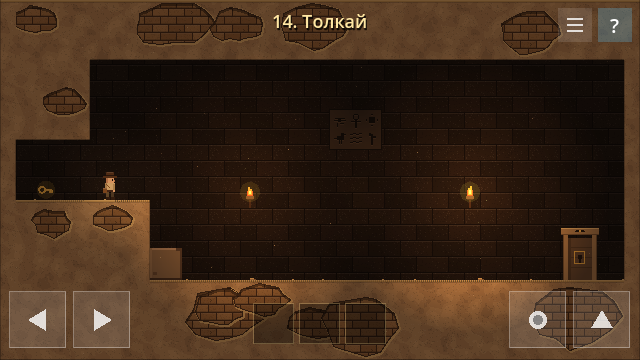
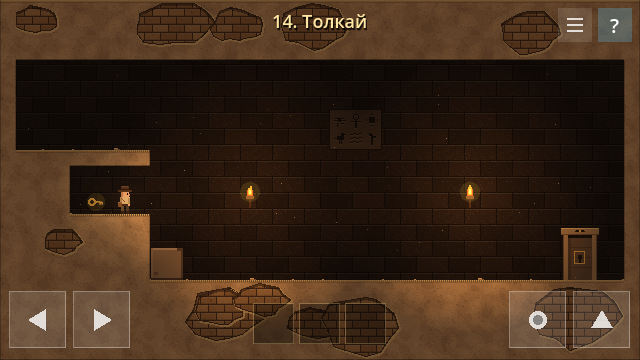
Level 14: hero pushes the stone off the ledge himself; secret cache inside the ledge
Claude-Session: https://claude.ai/code/session_01Grf5WdcuQYwuX1MMBXvSiC

Changed region(s): [[0.0, 0.1528, 0.25, 0.7028]]

diff --git a/README.md b/README.md
@@ -28,7 +28,7 @@
 | `scripts/rune_block.gd` | камень с голубой руной: касание (TAP) или перетаскивание (DRAG) |
 | `scripts/door.gd`, `lever.gd`, `exit_door.gd` | дверь, рычаг, выход |
 | `scripts/color_plate.gd`, `plate_sequence.gd` | цветные плиты в полу и головоломка «нажми по порядку» (уровень 13) |
-| `scripts/push_stone.gd` | каменный блок: герой толкает его и залезает на него, руна — толчок пальцем (уровень 14) |
+| `scripts/push_stone.gd` | каменный блок: герой толкает его и залезает на него; с hand_nudge его можно толкнуть пальцем (уровень 14) |
 | `scripts/solid.gd` | векторная геометрия уровня: любой многоугольник без сетки |
 | `scripts/tutorial_hint.gd` | обучающий значок без текста |
 | `tools/build_levels.gd` | собирает сцены уровней из описаний (запускается один раз) |
